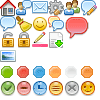
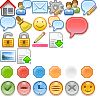
Fix chat upload plugin

Changed region(s): [[0.15, 0.48, 0.33, 0.66], [0.03, 0.57, 0.12, 0.6]]

diff --git a/js/ui.chat.js b/js/ui.chat.js
@@ -459,7 +459,7 @@ webimUI.chat.defaults.emot = true;
 plugin.add("chat","emot",{
 	init:function(e, ui){
 		var chat = ui.self;
-		var emot = new webimUI.emot();
+		var emot = chat.emot = new webimUI.emot();
 		emot.bind("select",function( e, alt){
 
 			chat.focus();
@@ -467,6 +467,7 @@ plugin.add("chat","emot",{
 		});
 		var trigger = createElement(tpl('<a href="#chat-emot" title="<%=emot%>"><em class="webim-icon webim-icon-emot"></em></a>'));
 		addEvent(trigger,"click",function(e){
+			chat.upload && removeClass( chat.upload.element, "webim-upload-show" );
 			preventDefault(e);
 			emot.toggle();
 		});
@@ -481,12 +482,13 @@ webimUI.chat.defaults.image = true;
 plugin.add("chat","image",{
 	init:function(e, ui){
 		var chat = ui.self;
-		var upload = new webimUI.upload();
+		var upload  = chat.upload = new webimUI.upload();
 		upload.bind("upload",function( e, markup ){
 			chat.sendMessage( markup );
 		});
 		var trigger = createElement(tpl('<a href="#chat-upload" title="<%=upload%>"><em class="webim-icon webim-icon-upload"></em></a>'));
 		addEvent(trigger,"click",function(e){
+			chat.emot && removeClass( chat.emot.element, "webim-emot-show" );
 			preventDefault(e);
 			upload.toggle();
 		});

diff --git a/css/icons.css b/css/icons.css
@@ -51,7 +51,7 @@
  }
 
  .webim-icon-upload{
-	 background-position:0 -48px;
+	 background-position:-16px -48px;
 }
 
 .webim-icon-available{
